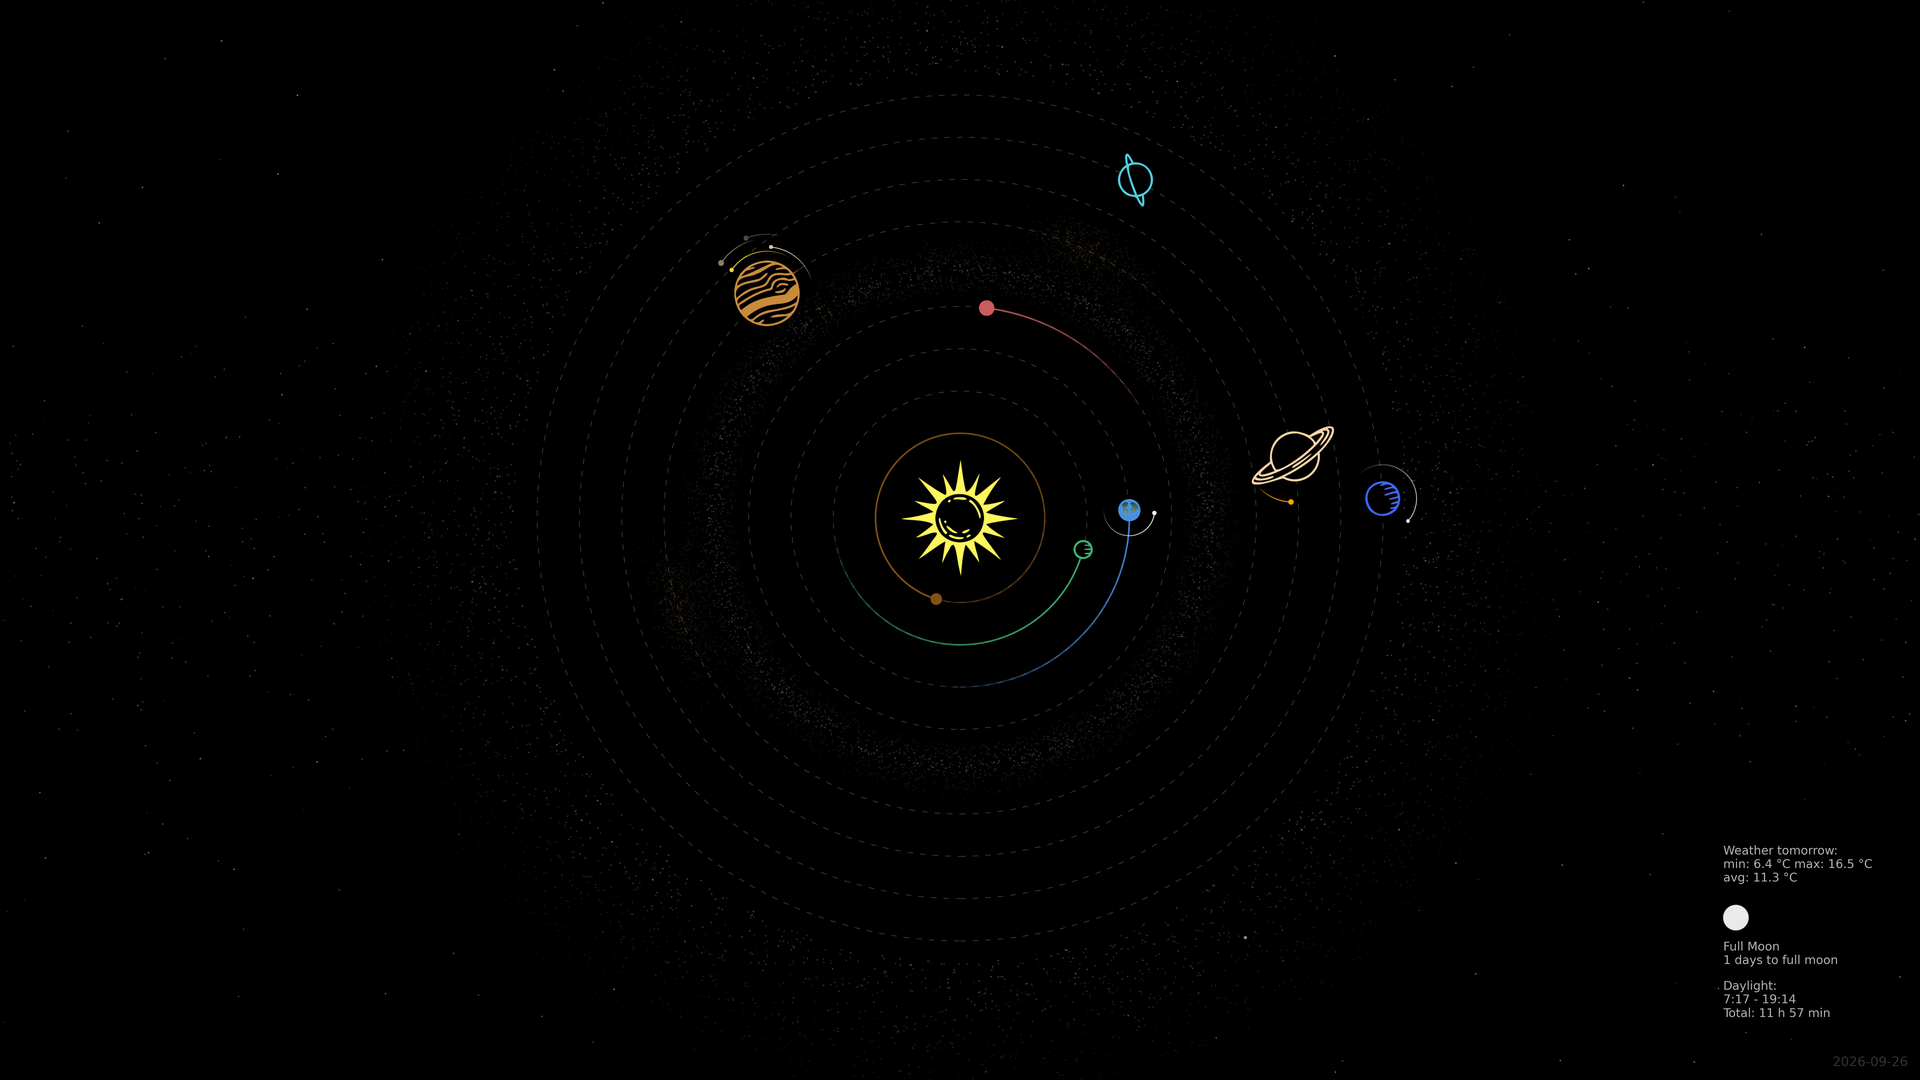
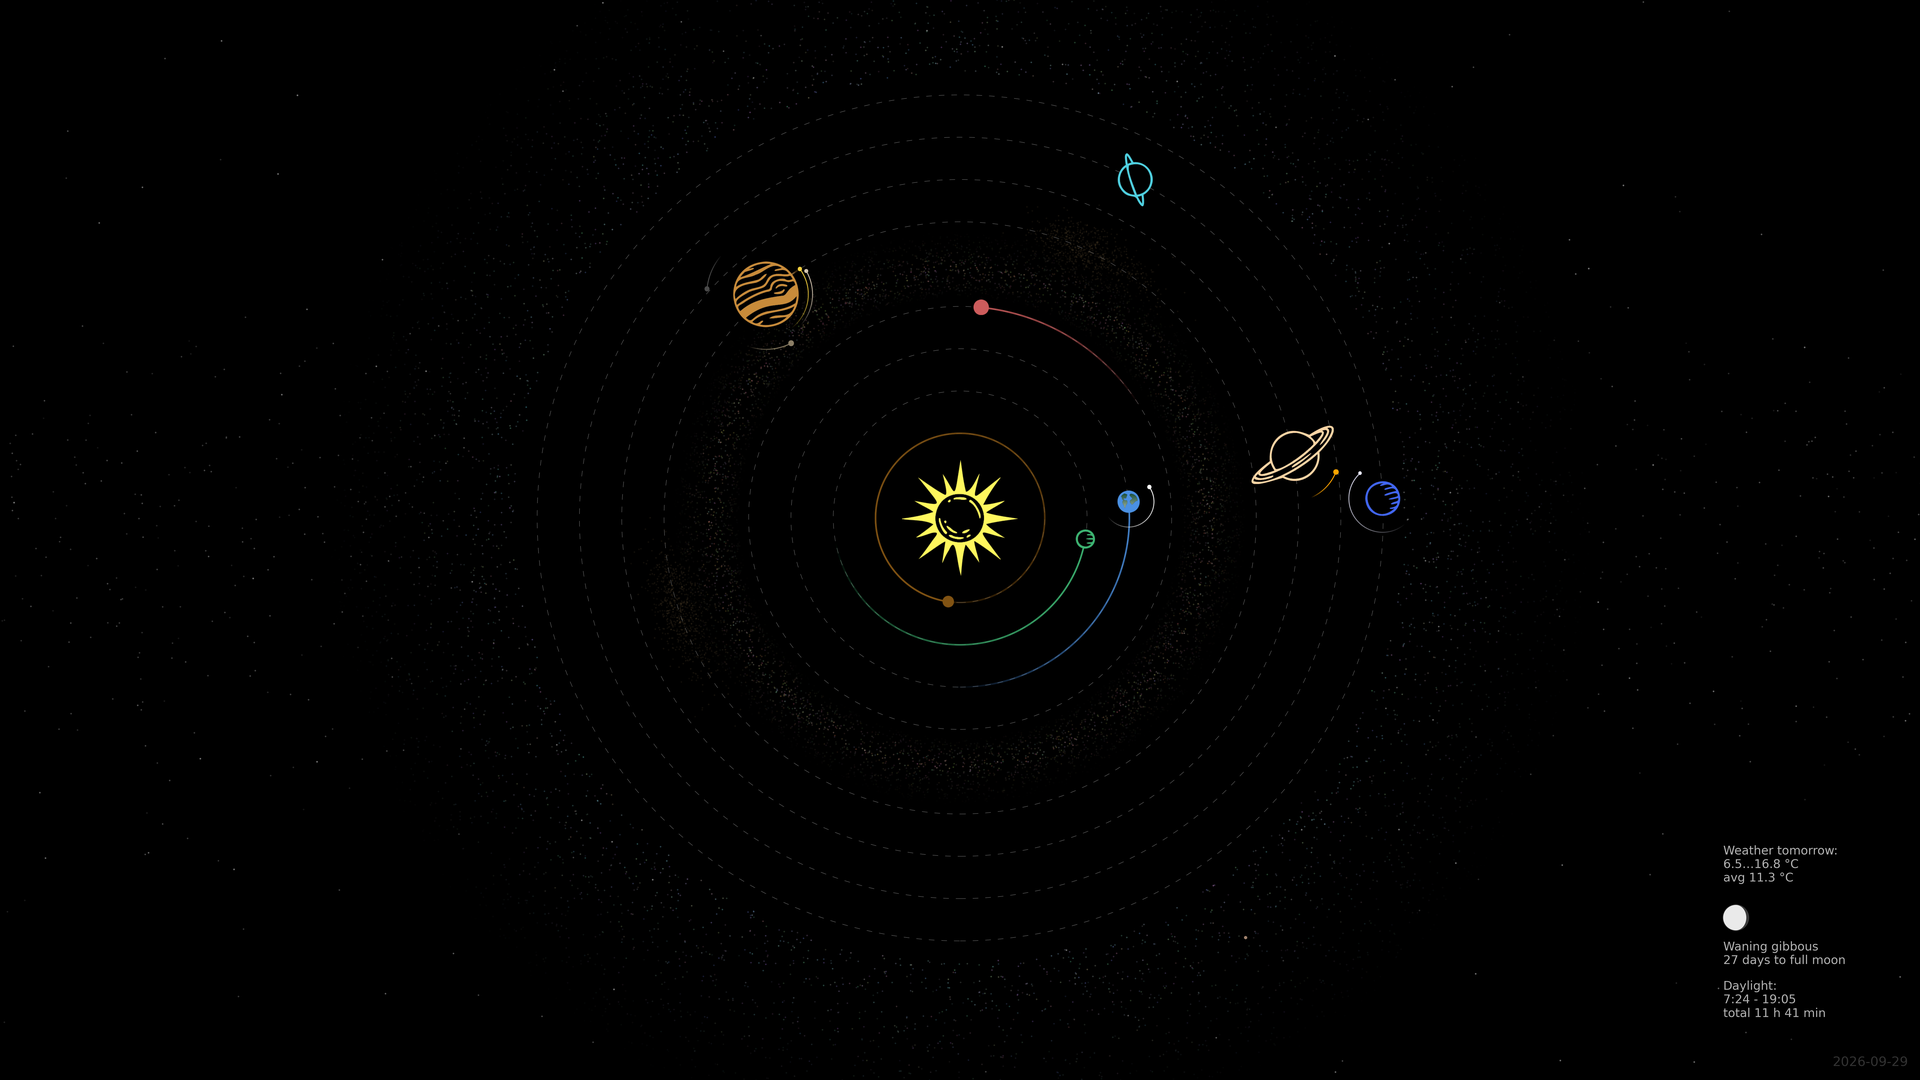
Text formatting

diff --git a/solarmap.py b/solarmap.py
@@ -91,37 +91,37 @@ STRINGS = {
         'days_to_full':     'pv täysikuuhun',
         'daylight_header':  'Päivänvalo:',
         'daylight_time':    'klo {rise} - {set}',
-        'daylight_hours':   'Yht: {h} t {m} min',
+        'daylight_hours':   'yht {h} t {m} min',
         'morning_temp':     'Lämpötila aamulla: {temp:.1f} °C',
         'block_heater':     'Lohkolämmitin päälle {time} ajaksi',
         'heating_05h':      '0,5 h',
         'heating_1h':       '1 h',
         'heating_2h':       '2 h',
         'weather_header':   'Sää huomenna:',
-        'weather_minmax':   'min: {min:.1f} °C maks: {max:.1f} °C',
-        'weather_avg':      'ka: {avg:.1f} °C',
+        'weather_minmax':   '{min:.1f}…{max:.1f} °C',
+        'weather_avg':      'ka {avg:.1f} °C',
     },
     'en': {
-        'full_moon':        'Full Moon',
-        'new_moon':         'New Moon',
-        'waxing_gibbous':   'Waxing Gibbous',
-        'first_quarter':    'First Quarter',
-        'waxing_crescent':  'Waxing Crescent',
-        'waning_gibbous':   'Waning Gibbous',
-        'last_quarter':     'Last Quarter',
-        'waning_crescent':  'Waning Crescent',
+        'full_moon':        'Full moon',
+        'new_moon':         'New moon',
+        'waxing_gibbous':   'Waxing gibbous',
+        'first_quarter':    'First quarter',
+        'waxing_crescent':  'Waxing crescent',
+        'waning_gibbous':   'Waning gibbous',
+        'last_quarter':     'Last quarter',
+        'waning_crescent':  'Waning crescent',
         'days_to_full':     'days to full moon',
         'daylight_header':  'Daylight:',
         'daylight_time':    '{rise} - {set}',
-        'daylight_hours':   'Total: {h} h {m} min',
+        'daylight_hours':   'total {h} h {m} min',
         'morning_temp':     'Morning temperature: {temp:.1f} °C',
         'block_heater':     'Block heater on for {time}',
         'heating_05h':      '0.5 h',
         'heating_1h':       '1 h',
         'heating_2h':       '2 h',
         'weather_header':   'Weather tomorrow:',
-        'weather_minmax':   'min: {min:.1f} °C max: {max:.1f} °C',
-        'weather_avg':      'avg: {avg:.1f} °C',
+        'weather_minmax':   '{min:.1f}…{max:.1f} °C',
+        'weather_avg':      'avg {avg:.1f} °C',
     }
 }
 
